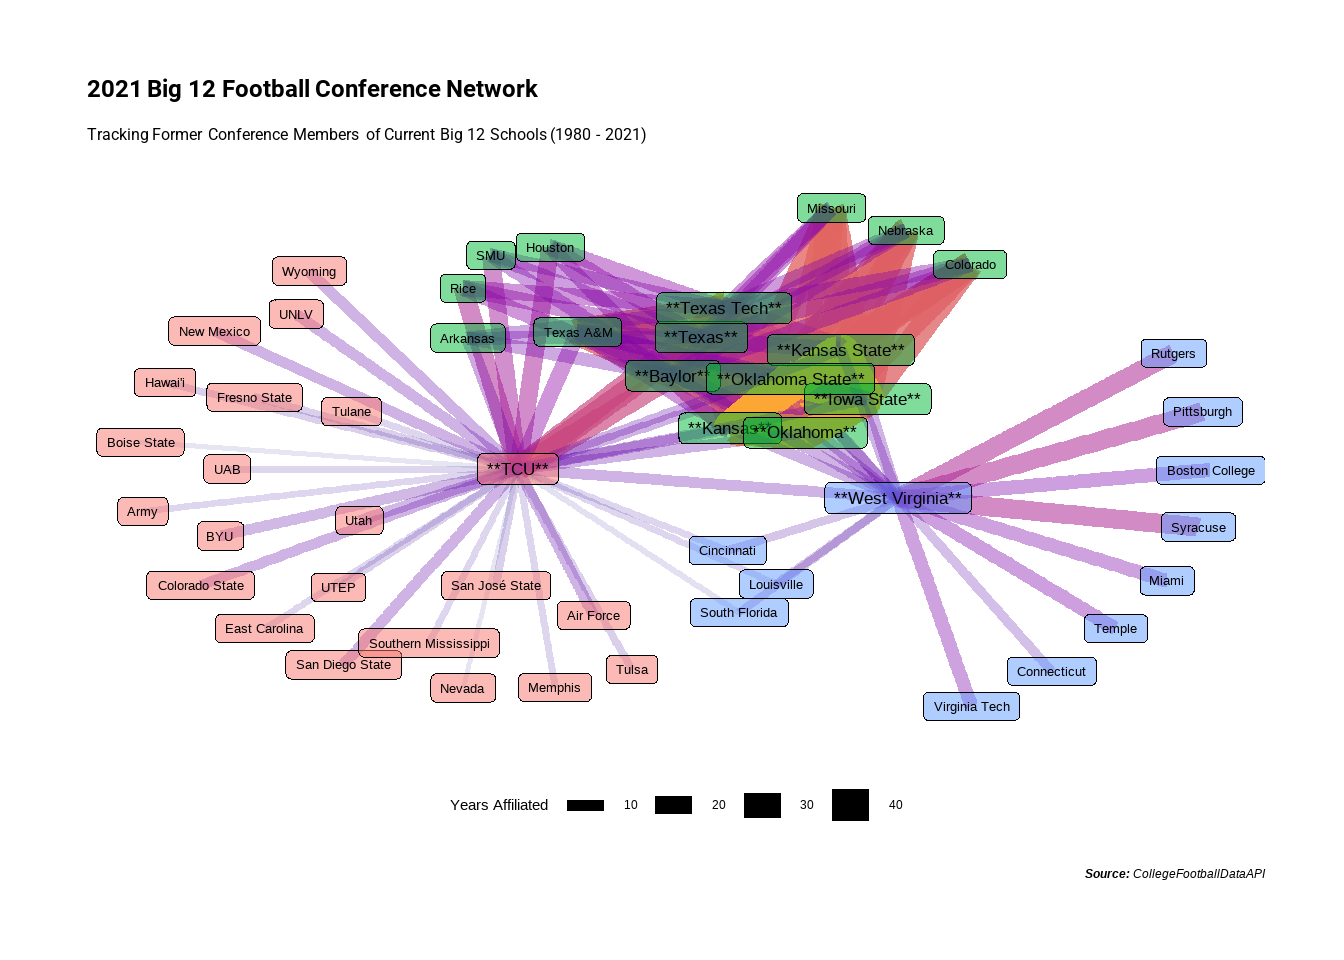
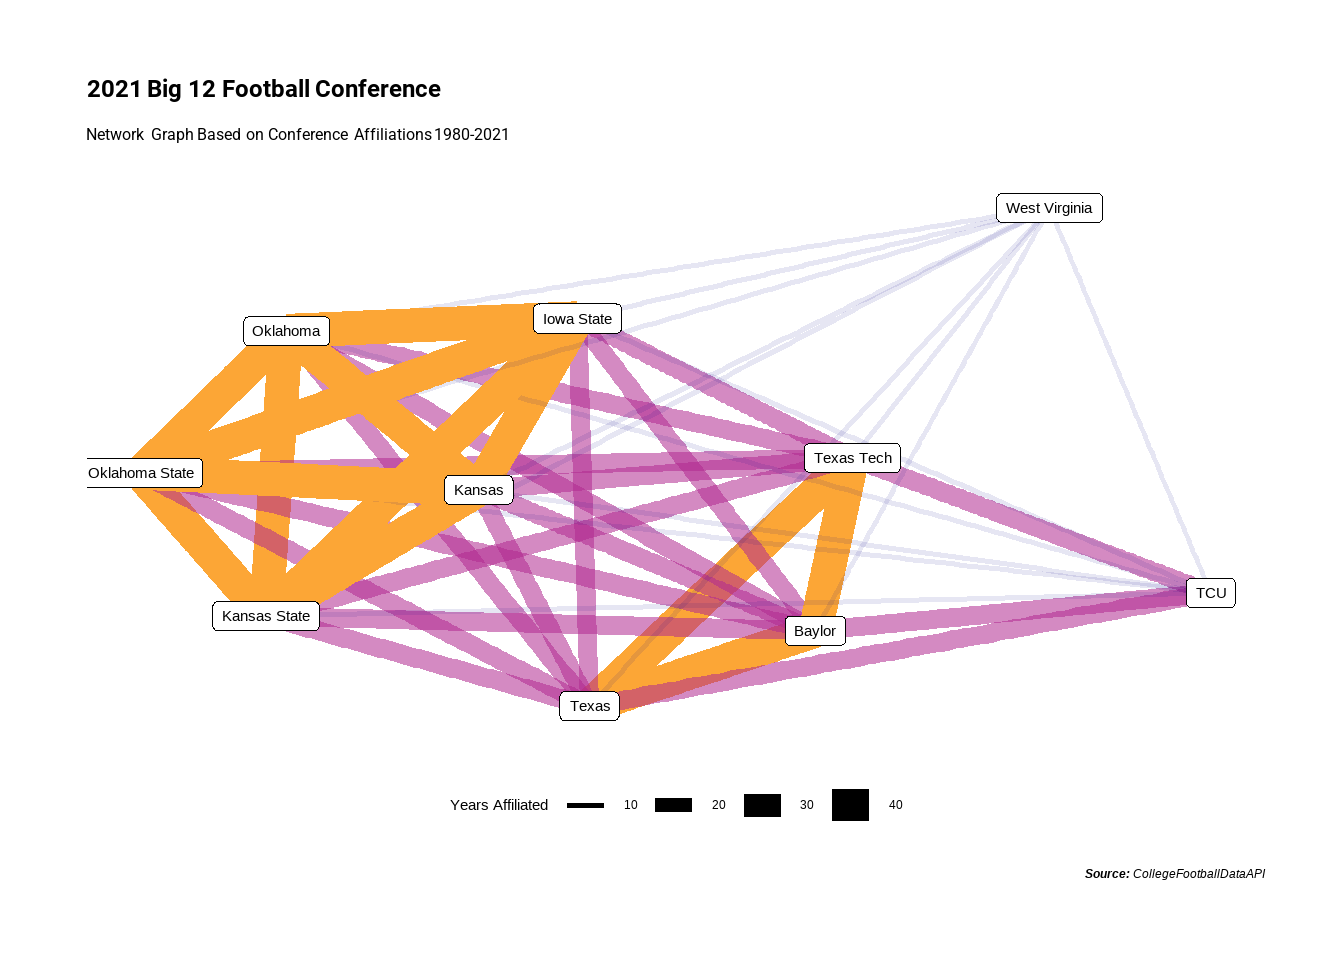
final edits

Changed region(s): [[0.0625, 0.1875, 0.9375, 0.75], [0.0625, 0.0625, 0.4688, 0.1562]]

diff --git a/content/post/2021-12-29-examining-college-football-conference-realignment-with-ggraph/index.html b/content/post/2021-12-29-examining-college-football-conference-realignment-with-ggraph/index.html
@@ -10,7 +10,6 @@ tags:
   - cfbfastR
   - ggraph
   - tidygraph
-  - ggump
 subtitle: ''
 summary: ''
 authors: []
@@ -26,9 +25,9 @@ projects: []
 <script src="{{< blogdown/postref >}}index_files/header-attrs/header-attrs.js"></script>
 
 
-<p>In my previous <a href="https://jlaw.netlify.app/2021/12/27/exploring-college-football-non-conference-rivalries-with-ggraph/">post</a> I looked at College Football Non-Conference games to create a network map overlaid on top of the United States using the {ggraph} package. In this post I’ll be extending that to examine Conference Realignment, which is when colleges change from one conference to the next. Over the years, this has been reactions to internal politics between Football schools vs. Basketball schools, or schools wanting increase in clout by joining a more prestigious conferences.</p>
-<p>More specifically, I’ll be making a network map based on historical conference affiliations to visualize the changes that have occurred due to realignment and then I’ll zoom specifically into the case of the Big 12 conference to show how the graph reflects the history of the conference.</p>
-<p>Since all of the packages being used in this post were described in the prior post, I’ll be skipping through that sections.</p>
+<p>In my previous <a href="https://jlaw.netlify.app/2021/12/27/exploring-college-football-non-conference-rivalries-with-ggraph/">post</a> I looked at College Football Non-Conference games to create a network map overlaid on top of the United States using the {ggraph} package. In this post I’ll be extending that to examine Conference Realignment, which is when colleges change from one conference to the next. Over the years, this has been caused by reactions to internal politics between Football schools vs. Basketball schools, or schools wanting an increase in clout by joining a more prestigious conference.</p>
+<p>More specifically, I’ll be making a network map based on historical conference affiliations to visualize the changes that have occurred due to realignment. Then I’ll zoom specifically into the case of the Big 12 conference to show how the graph reflects the history of the conference.</p>
+<p>Since all of the packages being used in this post were described in the prior <a href="https://jlaw.netlify.app/2021/12/27/exploring-college-football-non-conference-rivalries-with-ggraph/">post</a>, I’ll be skipping through that section.</p>
 <div id="set-up" class="section level1">
 <h1>Set up</h1>
 <pre class="r"><code>library(tidyverse)
@@ -37,16 +36,15 @@ library(tidygraph)
 library(ggraph)
 library(ggtext)
 library(showtext)
-library(ggbump)
 
 font_add_google(&#39;Roboto&#39;, &quot;roboto&quot;)
 showtext_auto()</code></pre>
 </div>
 <div id="creating-a-network-of-the-fbs-conference-affiliations" class="section level1">
 <h1>Creating a Network of the FBS Conference Affiliations</h1>
-<p>For this both analyses I’ll be creating a network graph where individual schools are the nodes and the edges represent whether those schools were in the same conference in a given year. Since conference affiliations will change over time, the number of years that school’s were in the same conference will form a strength of association. To get this data, I’ll be using the <code>cfdb_team_info()</code> function from the {cfbfastR} package to return a list of all the FBS schools and their conference affiliation for each year between 1980 and 2021.</p>
-<p>The choice of 1980 is arbitrary to limit the number of connections and the size of the data. However, the package can return data at least as far back as 1900.</p>
-<p>In order to extract the data for each year I pass a vector of years 1980 through 2021 into <code>map_dfr</code> from {purrr} to run a custom function taking each individual year as an input and stacking the results into a single data frame. My custom function first calls the College Football Database API to retrieve all the schools for a given year and removes all the Independent schools since they do not have an affiliation (for example, Notre Dame). Then since I need to list my list of schools into a list of co-occurrence for each conference, I <code>group_by()</code> conference so the next parts of the function get run on a conference by conference basis, expand the school column to create two columns with all within conference combinations. Since “all within conference combinations” includes having the same school twice, I’ll filter out those rows, and since A/B is different than B/A, I’ll create new variables that will always put the school coming first alphabetically into <code>school1</code> and the other into <code>school2</code>. Technically, this will double each entry but I’ll run <code>distinct()</code> to get the unique set since I’m going to eventually weight by the number of years and this function runs one year at a time.</p>
+<p>For both analyses I’ll be creating a network graph where individual schools are the nodes and the edges represent whether those schools were in the same conference in a given year. Since conference affiliations will change over time, the number of years that schools were in the same conference will form a strength of association. To get this data, I’ll be using the <code>cfdb_team_info()</code> function from the {cfbfastR} package to return a list of all the FBS schools and their conference affiliation for each year between 1980 and 2021.</p>
+<p>The choice of 1980 is arbitrary to limit the number of connections and the size of the data. However, the package can return data much further back in time.</p>
+<p>In order to extract the data for each year I pass a vector of years 1980 through 2021 into <code>map_dfr</code> from {purrr} to run a custom function taking each individual year as an input and stacking the results into a single data frame. My custom function first calls the College Football Database API to retrieve all the schools for a given year and removes all the Independent schools since they do not have an affiliation (for example, Notre Dame). Then since I need to get my list of schools into a list of co-occurrences for each conference, I <code>group_by()</code> conference so the next parts of the function get run on a conference by conference basis and <code>expand</code> the school column to create two columns with all within conference combinations. Since “all within conference combinations” includes having the same school twice, I’ll filter out those rows, and since A/B is different than B/A, I’ll create new variables that will always put the school coming first alphabetically into <code>school1</code> and the other into <code>school2</code>. Technically, this will double count each entry but I’ll run <code>distinct()</code> to get the unique set since I’m going to eventually weight by the number of years and this function runs one year at a time.</p>
 <pre class="r"><code>conference_graph_data &lt;- map_dfr(1980:2021, function(yr){
   # get the list of schools for a given year
   x &lt;- cfbd_team_info(year = yr) %&gt;%
@@ -71,7 +69,7 @@ showtext_auto()</code></pre>
 <p>For the nodes on this graph I’ll only want the schools that are part of the Football Bowl Subdivision in 2021 rather than schools that may have dropped down to the FCS. To get this list I’ll run <code>cfdb_team_info(year = 2021)</code> to get a data frame of all 2021 schools. But since I only need a vector to filter on, I’ll use <code>pull()</code> to just extract the school name to the vector.</p>
 <pre class="r"><code>current_fbs &lt;- cfbd_team_info(year = 2021) %&gt;%
   pull(school)</code></pre>
-<p>Next, I’ll use the {tidygraph} package to turn this list of edges into a <code>tbl_graph()</code> object. First I <code>ungroup</code> the data frame since it would still be grouped from my custom function. Then using the <code>count()</code> function I create a weight columns for each year the school schools are affiliated with each other. Next, I leverage the vector I created in the step before to keep only edges where both schools are currently in the FBS. Then I create the <code>tbl_graph</code> object using <code>as_tbl_graph()</code>.</p>
+<p>Next, I’ll use the {tidygraph} package to turn this list of edges into a <code>tbl_graph()</code> object. First I <code>ungroup</code> the data frame since it would still be grouped from my custom function. Then using the <code>count()</code> function I create a <code>weight</code> column for each year the schools are affiliated with each other. Next, I leverage the vector I created in the step before to keep only edges where both schools are currently in the FBS. Then I create the <code>tbl_graph</code> object using <code>as_tbl_graph()</code>.</p>
 <p><code>tbl_graph</code> objects can be manipulated using {dplyr} verbs to create additional information for either the nodes or the edges. In this instance I add two additional columns to the nodes:</p>
 <ol style="list-style-type: decimal">
 <li>I add the number of schools that each node is affiliated with using <code>centrality_degree()</code></li>
@@ -108,7 +106,7 @@ print(conf_graph_all)</code></pre>
 ## 2     1    32     42
 ## 3     1    42     42
 ## # ... with 1,139 more rows</code></pre>
-<p>Note that in the above output, you can see the columns for <code>degree</code> and <code>community</code> that I created. For the Arizona and Arizona State columns, the <code>degree</code> means that they are each connected to 11 schools (which I found kind of shocking, but since the Pac-10 formed in 1978 it does make sense that they’ve only been in a conference with the other now Pac-12 schools). The <code>community</code> column means that they both belong to the same grouping of nodes, which is this case is probably the Pac-12.</p>
+<p>Note that in the above output, you can see the columns for <code>degree</code> and <code>community</code> that I created. For the Arizona and Arizona State columns, the <code>degree</code> means that they are each connected to 11 schools (which I found kind of shocking, but since the Pac-10 formed in 1978 it does make sense that they’ve only been in a conference with the other now Pac-12 schools). The <code>community</code> column means that they both belong to the same grouping of nodes, which in this case is probably the Pac-12.</p>
 <p>For creating the network visualization itself, I’m using the {ggraph} package which has a very similar syntax to {ggplot2}. The important notes here is that I’m displaying the edges as straight lines using <code>geom_edge_link()</code> and varying the shading, color, and width based on the weight. And I’m displaying the nodes as labels using <code>geom_node_label</code> and filling in by the <code>community</code> column. Everything else should be pretty normal if you’re familiar with {ggplot2} syntax.</p>
 <pre class="r"><code>conf_graph_all %&gt;% 
   ggraph() + 
@@ -131,12 +129,13 @@ print(conf_graph_all)</code></pre>
     plot.caption = element_markdown()
   )</code></pre>
 <p><img src="featured.PNG" /></p>
-<p>While I normally like to have everything be reproducible it felt easier to do some annotations about what the various communities are and how they reflect the current conference structure as well as how schools that change conferences do appear as caught in a tug of war between two communities. The piece that I enjoy the most is the depiction of the former Big East football teams with Syracuse, Virginia Tech, Miami, Pittsburgh, and Boston College being teams that left for the ACC between 2004 and 2013 (with Louisville following in 2014); West Virginia which left for the Big 12 in 2012, and Rutgers which left for the Big Ten in 2014 (along with Maryland who left the ACC for the Big Ten and shows up very clearly between those two clusters).</p>
+<p>While I normally like to have everything be reproducible it felt necessary to do some annotations about what the various communities are and how they reflect the current conference structure as well as how schools that change conferences appear as caught in a tug of war between two communities. These annotations, while possible to due in R, are much easier to do outside of it.</p>
+<p>The piece that I enjoy the most is the depiction of the former Big East football teams. Syracuse, Virginia Tech, Miami, Pittsburgh, and Boston College left for the ACC between 2004 and 2013 (with Louisville following in 2014); West Virginia left for the Big 12 in 2012; And Rutgers left for the Big Ten in 2014 (along with Maryland who left the ACC for the Big Ten and shows up very clearly between those two clusters).</p>
 </div>
 <div id="zooming-into-the-big-12" class="section level1">
 <h1>Zooming into the Big 12</h1>
-<p>Using a similar technique to the one above I can look at a sub-graph of the current Big 12 schools as well as all the schools that are one degree removed from a current Big 12 school.</p>
-<p>Similar to before, I’ll query the College Football Data Base API and pass in the parameter B12 for the Big 12 Conference and the year 2021 to get the list of existing schools and then I’ll use that list to filter to the current Big 12 schools and any other schools that has ever been affiliated with a current Big 12 school and using community detection with <code>group_louvain()</code>.</p>
+<p>Using a similar technique to the one above I can look at a sub-graph of the current Big 12 schools. I chose the Big 12 for this example because I think the history of the conference is both interesting and well structured when compared to the complete chaos or complete stability of other conferences. Just to get this out of the way, College Football conference sometimes anchor more to branding in their names than accuracy. You might notice that the Big 12 only has 10 schools and the Big Ten has 14. Best not too think too much about this.</p>
+<p>Similar to before, I’ll query the College Football Data Base API and pass in the parameter B12 for the Big 12 Conference and the year 2021 to get the list of existing schools and then I’ll use that list to filter to the current Big 12 schools and any other schools that has ever been affiliated with a current Big 12 school. For simplicity later on I create an indicator for whether the node is a current Big 12 school.</p>
 <pre class="r"><code>current_big_12 &lt;- cfbd_team_info(conference = &#39;B12&#39;, year = 2021) %&gt;%
   pull(school)
 
@@ -150,23 +149,21 @@ conf_graph_b12 &lt;- conference_graph_data %&gt;%
   # Turn to tbl_graph_object
   as_tbl_graph(directed = F) %&gt;%
   # Create indicator for a current Big 12 Schools
-  mutate(is_current_big_12 = name %in% current_big_12,
-         name = if_else(is_current_big_12, paste0(&quot;**&quot;,name,&quot;**&quot;), name),
-         community = group_louvain()) </code></pre>
-<p>Then using similar code to the full network above, I can plot the Big 12 sub-graph. The current Big 12 school’s names will be starred:</p>
-<pre class="r"><code>conf_graph_b12 %&gt;%
-ggraph() + 
-  geom_edge_link(aes(edge_alpha = weight, edge_color = weight, edge_width = weight)) + 
-  geom_node_label(aes(label = name, fill = factor(community), 
-                      size = is_current_big_12), show.legend = F,
-                  alpha = .5) + 
+  mutate(is_current_big_12 = name %in% current_big_12) </code></pre>
+<p>Using similar code to the full network above, I can plot the Big 12 sub-graph after filtering to only nodes from current Big 12 schools. In this case, rather than using the default <code>ggraph()</code> layout, I give it the <code>'fr'</code> string which applies the Fruchterman-Reingold layout algorithm. Since this can provide non-deterministic layouts, I set the seed before running.</p>
+<pre class="r"><code>set.seed(20211229)
+conf_graph_b12 %&gt;%
+  # Filter to current Big 12 Schools
+  filter(is_current_big_12) %&gt;%
+  ggraph(&#39;fr&#39;) + 
+  geom_edge_link(aes(edge_alpha = weight, edge_color = weight, 
+                     edge_width = weight)) + 
+  geom_node_label(aes(label = name)) + 
   scale_edge_alpha_continuous(guide = &#39;none&#39;) + 
   scale_edge_width() + 
   scale_edge_color_viridis(option = &#39;C&#39;, end = .8, guide = &#39;none&#39;) + 
-  scale_size_discrete(range = c(3.5, 4.5)) + 
-  scale_fill_discrete(guide = F) + 
-  labs(title = &quot;2021 Big 12 Football Conference Network&quot;,
-       subtitle = &quot;Tracking Former Conference Members of Current Big 12 Schools (1980 - 2021)&quot;,
+  labs(title = &quot;2021 Big 12 Football Conference&quot;,
+       subtitle = &quot;Network Graph Based on Conference Affiliations 1980-2021&quot;,
        edge_width = &quot;Years Affiliated&quot;,
        caption = &#39;**Source:** CollegeFootballData API&#39;) + 
   theme_graph() + 
@@ -177,17 +174,18 @@ ggraph() +
     plot.caption = element_markdown()
     
   )</code></pre>
-<p><img src="{{< blogdown/postref >}}index_files/figure-html/b12_chart-1.png" width="100%" />
-I like the <a href="https://en.wikipedia.org/wiki/Big_12_Conference#Former_members">Big 12</a> as an example because its the Conference that reveals the most history in its structure forming in 1996 from the merging of the <a href="https://en.wikipedia.org/wiki/Big_Eight_Conference#Conference_split">Big 8</a> (Missouri, Colorado, Nebraska, Oklahoma, Oklahoma State, Iowas State, Kansas, Kansas State) with four teams from the <a href="https://en.wikipedia.org/wiki/Southwest_Conference#Football">Southwest Conference</a> (Texas, Texas Tech, Baylor, Texas A&amp;M). Missouri, Nebraska, and Colorado left for other conferences in 2011 and 2012 creating their sub-cluster, but the strong core network of the other five schools from the Big 8 remain as well as the closer positioning of the four Southwest Conference schools that joined. Texas A&amp;M left for the SEC in 2012 but shows up as less of an outlier given their time with the other Texas schools in the Southwest Conference for the 16 years in this data before the conference dissolved and having been in the Big 12 for 6 years before leaving.</p>
-<p>The schools from the Southwest Conference that weren’t absorbed into the Big 12 went their separate ways. Arkansas joined the SEC. Rice, TCU, and SMU joined the Western Athletic Conference (WAC), and Houston joined Conference USA.</p>
-<p>The red and blue clusters are easily explained and lack much of the history that goes with the green cluster. TCU moved its way from the WAC to Conference USA in 2001 then onto the Mountain West Conference in 2005 before joining the Big 12 in 2012. In its journey TCU became associated with 21 schools that are only on the chart because of them.</p>
-<p>The blue cluster, West Virginia, is connected to its former conference-mates in the Big East conference before joining the Big 12 in 2012. Cincinnati, Louisville, and South Florida appear between TCU and West Virginia due to their being in Conference USA before joining the Big East.</p>
-<p>The most interesting part is the green grouping and how you can see some sub-grouping that are in line with historical conference realignment:
-1. The core group of the Big 8 that have stayed together (Kansas, Kansas State, Oklahoma, Oklahoma State, Iowa State)
-2. The piece of the Big 8 that left the Big 12 (Missouri, Nebraska, Colorado)
-3. The piece of the Southwest Conference that joined the Big 12 (Texas, Texas Tech, Texas A&amp;M, Baylor)
-4. The piece of the Southwest Conference that left to join other Conferences (Arkansas, Rice, SMU, Houston, TCU)</p>
-<p>This was a lot of narrative, so hopefully this image can show the migration and overlap between these 50 schools a bit better. For the non-current Big 12 schools, the chart reflects the time when they were associated. For example, a school like Wyoming shows a gap for the time when TCU was in Conference USA between its time in the WAC and the Mountain West since for that short period they were not in a conference with any current Big 12 school.</p>
+<p><img src="{{< blogdown/postref >}}index_files/figure-html/b12_chart-1.png" width="100%" /></p>
+<p>Just eyeballing the above graph it looks like there are 4 clusters of nodes:</p>
+<ol style="list-style-type: decimal">
+<li>The strong network of Oklahoma, Oklahoma State, Iowa State, Kansas, and Kansas State</li>
+<li>The strong network of Texas, Texas Tech, and Baylor</li>
+<li>TCU is a moderate strength network with the Texas schools</li>
+<li>West Virginia without any strong connections.</li>
+</ol>
+<p>When looking through the <a href="https://en.wikipedia.org/wiki/Big_12_Conference#Former_members">Big 12</a> conference history this structure makes a ton of sense. The conference was formed in 1996 from the merging of the <a href="https://en.wikipedia.org/wiki/Big_Eight_Conference#Conference_split">Big 8</a> which included the schools in group 1 (as well as Nebraska, Colorado, and Missouri who eventually left for other conferences in 2011-2012) and the <a href="https://en.wikipedia.org/wiki/Southwest_Conference#Football">Southwest Conference</a> from which Texas Tech, Texas and Baylor joined (Texas A&amp;M joined as well but left for a different conference in 2012). So the strong networks in groups 1 and 2 and the weaker connections between them reflect these original conference and their merging.</p>
+<p>TCU was part of the original Southwest Conference with the Texas schools but did not join the Big 12 until 2012 instead journeying through the Western Athletic Conference (WAC), Conference USA, and the Mountain West Conference. This is reflected in their connection with the Texas schools (through their time in the Southwest Conference) but with weaker strength than the other Texas schools have with each other.</p>
+<p>Finally, West Virginia joined the Big 12 in 2012 from the Big East conference and prior to that point had no affiliation with any of the other schools.</p>
+<p>While the graph is good for showing the structure of the relationships it can be difficult to follow the conference merges and changes. This should be more apparent in the visualization below:</p>
 <pre class="r"><code>conference_graph_data %&gt;%
   ungroup() %&gt;%
   filter(school1 %in% current_big_12 | school2 %in% current_big_12) %&gt;%
@@ -195,7 +193,6 @@ I like the <a href="https://en.wikipedia.org/wiki/Big_12_Conference#Former_membe
   select(-dummy) %&gt;%
   distinct() %&gt;% 
   add_count(school, name = &#39;years&#39;) %&gt;%
-  mutate(school = if_else(school %in% current_big_12, paste0(&quot;**&quot;,school,&quot;**&quot;), school)) %&gt;%
   group_by(school, years, conference) %&gt;% 
   summarize(start = min(season)-.5, end = max(season)+.5) %&gt;%
   mutate(first_conference = max(if_else(start == min(start), conference, NA_character_), na.rm = T),
@@ -204,11 +201,11 @@ I like the <a href="https://en.wikipedia.org/wiki/Big_12_Conference#Former_membe
   arrange(first_start, first_conference, -years, n_conferences, school) %&gt;% 
   ungroup() %&gt;% 
   mutate(ord = row_number()) %&gt;% 
+  filter(school %in% current_big_12) %&gt;%
   ggplot(aes(x = fct_reorder(school, ord, min, .desc = T))) + 
-  geom_linerange(aes(ymin = start, ymax = end, color = conference), size = 3) + 
+  geom_linerange(aes(ymin = start, ymax = end, color = conference), size = 8) + 
   labs(x = &quot;Schools&quot;, y = &quot;Season&quot;, color = &quot;Conference&quot;,
-       title = &quot;The 2021 Big 12 Schools and Prior Affiliates (1980-2021)&quot;,
-       subtitle = &quot;Current Big 12 schools are **bolded**&quot;) + 
+       title = &quot;Conference Migration of the Current Big 12 Schools&quot;) + 
   coord_flip() + 
   ggthemes::scale_color_tableau() + 
   cowplot::theme_cowplot() + 
@@ -217,5 +214,6 @@ I like the <a href="https://en.wikipedia.org/wiki/Big_12_Conference#Former_membe
     plot.subtitle = element_markdown(),
     panel.grid.major.y = element_line(color = &#39;grey90&#39;)
   )</code></pre>
-<p><img src="{{< blogdown/postref >}}index_files/figure-html/school_migration-1.png" width="100%" /></p>
+<p><img src="{{< blogdown/postref >}}index_files/figure-html/school_migration-1.png" width="100%" />
+Given the history of the Big 12 Conference and college football conference realignment in general it does appears that network structures work well for encoding the history of conference affiliations into a visualization.</p>
 </div>
